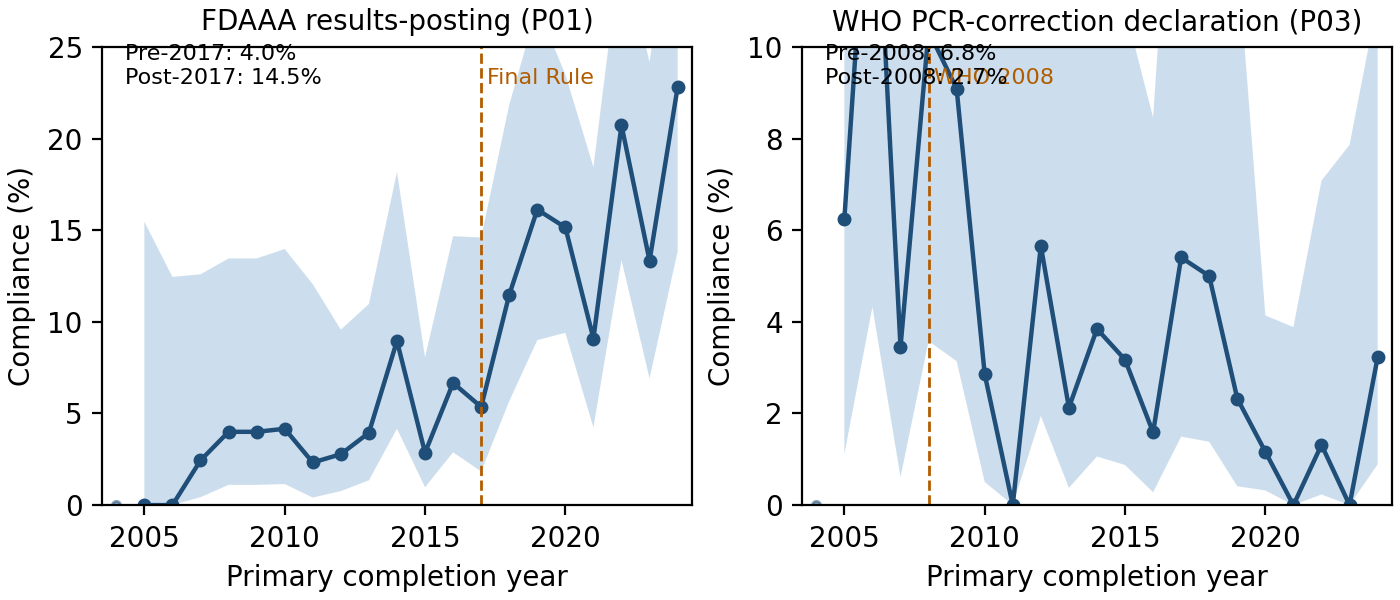
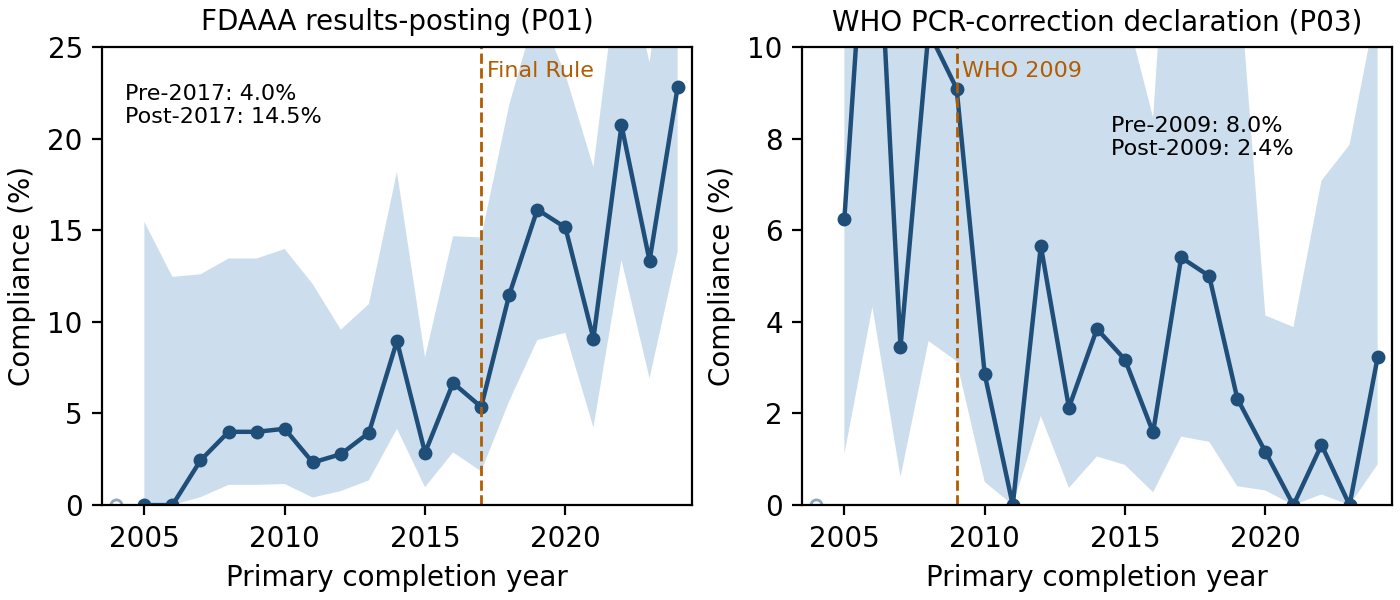
v0.1.3 — multi-persona review fixes; WHO mandate year 2008→2009
Multi-persona review (5 personas, 5 P0/28 P1) flagged paper-side issues.
This release closes all 5 P0s and the high-priority paper P1s.

Cascade changes
- P0-1: WHO mandate year 2008 → 2009 (operational *Methods for Surveillance
  of Antimalarial Drug Efficacy* protocol). The 2008 monograph was a
  technical genotyping reference, not the methodological mandate. With
  the 2009 cutoff, pre-mandate n=96 (vs n=67 at 2008), Fisher p=0.016
  (vs p=0.12). Spec divergence documented in preregistration-history.md;
  spec OTS anchor unchanged.
- P0-2: ACPR-broad regex added to expanded check (ACPR, recrudescence-vs-
  reinfection, msp1/msp2/glurp genotyping). Strict 2.8% / broad 7.5% now
  reported as lower/upper bounds in body. Production P03 unchanged.
- P0-3: ATTENUATE_SENTENCE rewritten to drop unsupported "persists" claim
  (Fisher p=0.06 with n_pre=27 cannot support persistence inference).
- P0-4: Wilson CIs added to all 4 pre/post numbers; Fisher p reported.
- P0-5: Figure-D right-panel annotation collision fixed; n<10 now renders
  as open circles (closes P1-17 too). Mandate label moved to y_max*0.97.

Paper edits
- P1-15: FDAAA, AACT, MDA expanded on first use.
- P1-16: percent formatting normalized to NBSP throughout body+caption.
- P1-6: Bhatt 2015 cite dropped (off-topic for portfolio-shift claim).
- P1-7: "audit/enforcement architecture matter more" overreach softened
  to "consistent with audit infrastructure being the active ingredient".
[…]

diff --git a/paper/make_figure_d.py b/paper/make_figure_d.py
@@ -36,7 +36,8 @@ def _wilson(k: int, n: int, alpha: float = 0.05) -> tuple[float, float]:
     return max(0.0, centre - half), min(1.0, centre + half)
 
 
-def _panel(ax, years, n, k, rate, mandate_year, mandate_label, ann_text, y_max, title):
+def _panel(ax, years, n, k, rate, mandate_year, mandate_label, ann_text, y_max, title,
+           ann_xy=None):
     ci = [_wilson(int(ki), int(ni)) for ki, ni in zip(k, n)]
     lo = np.array([c[0] for c in ci])
     hi = np.array([c[1] for c in ci])
@@ -45,15 +46,21 @@ def _panel(ax, years, n, k, rate, mandate_year, mandate_label, ann_text, y_max, 
 
     ax.fill_between(years[strong], lo[strong] * 100, hi[strong] * 100,
                     alpha=0.25, color="#377eb8", linewidth=0)
-    ax.plot(years[strong], rate[strong] * 100, marker="o", color="#1f4e79", linewidth=1.6, markersize=4)
+    ax.plot(years[strong], rate[strong] * 100, marker="o", color="#1f4e79",
+            linewidth=1.6, markersize=4, label="n ≥ 10")
     if weak.any():
         ax.fill_between(years[weak], lo[weak] * 100, hi[weak] * 100,
                         alpha=0.10, color="#377eb8", linewidth=0)
         ax.plot(years[weak], rate[weak] * 100, marker="o", color="#1f4e79",
-                linewidth=0.7, markersize=3, alpha=0.5)
+                linewidth=0.7, markersize=4, alpha=0.5,
+                markerfacecolor="white", markeredgecolor="#1f4e79",
+                markeredgewidth=1.0, label="n < 10")
     ax.axvline(mandate_year, linestyle="--", color="#b25c00", linewidth=1.0)
-    ax.text(mandate_year + 0.2, y_max * 0.92, mandate_label, fontsize=8, color="#b25c00")
-    ax.text(2004.3, y_max * 0.92, ann_text, fontsize=8)
+    ax.text(mandate_year + 0.2, y_max * 0.97, mandate_label, fontsize=8,
+            color="#b25c00", verticalalignment="top")
+    ann_x, ann_y_frac = ann_xy if ann_xy is not None else (2004.3, 0.92)
+    ax.text(ann_x, y_max * ann_y_frac, ann_text, fontsize=8,
+            verticalalignment="top")
     ax.set_xlim(2003.5, 2024.5)
     ax.set_ylim(0, y_max)
     ax.set_xlabel("Primary completion year")
@@ -77,7 +84,7 @@ def make(csv_path: Path, out_png: Path, out_svg: Path) -> None:
         return pre_rate, post_rate
 
     p01_pre, p01_post = split(df, "n_p01", "k_p01", 2017)
-    p03_pre, p03_post = split(df, "n_p03", "k_p03", 2008)
+    p03_pre, p03_post = split(df, "n_p03", "k_p03", 2009)
 
     fig, (axL, axR) = plt.subplots(1, 2, figsize=(7.0, 3.0), constrained_layout=True)
     _panel(
@@ -98,11 +105,12 @@ def make(csv_path: Path, out_png: Path, out_svg: Path) -> None:
         df["n_p03"].to_numpy(),
         df["k_p03"].to_numpy(),
         df["rate_p03"].to_numpy(),
-        mandate_year=2008,
-        mandate_label="WHO 2008",
-        ann_text=f"Pre-2008: {p03_pre*100:.1f}%\nPost-2008: {p03_post*100:.1f}%",
+        mandate_year=2009,
+        mandate_label="WHO 2009",
+        ann_text=f"Pre-2009: {p03_pre*100:.1f}%\nPost-2009: {p03_post*100:.1f}%",
         y_max=10.0,
         title="WHO PCR-correction declaration (P03)",
+        ann_xy=(2014.5, 0.85),
     )
     out_png.parent.mkdir(parents=True, exist_ok=True)
     out_svg.parent.mkdir(parents=True, exist_ok=True)

diff --git a/pilots/p03_decision_rule.py b/pilots/p03_decision_rule.py
@@ -19,14 +19,16 @@ PERSIST_SENTENCE = (
     "the uncomplicated-falciparum subset where PCR-correction is unambiguously relevant."
 )
 ATTENUATE_SENTENCE = (
-    "the decline is partially attributable to portfolio shift but persists within "
-    "the uncomplicated-falciparum subset."
+    "within the uncomplicated-falciparum subset the same direction holds but the "
+    "small pre-mandate sample renders the within-subset trend inconclusive."
 )
 # Note: spec §4 originally said "flat at ~5% throughout"; we drop the speculative
 # "~5%" because the body_sentence is consumed verbatim by T12, and a hardcoded
 # rate would contradict Figure D if DISAPPEAR ever fires with a different rate.
 # DISAPPEAR did not fire on the AACT 2026-04-12 data (band=attenuates), so this
 # is currently moot, but the documented divergence preserves the integrity claim.
+# v0.1.3: ATTENUATE_SENTENCE rewritten to drop the unsupported "persists" claim
+# (Fisher p=0.06 in the n_pre=27 subset; CIs overlap). See review-findings.md P0-3.
 DISAPPEAR_SENTENCE = (
     "the apparent decline is largely explained by portfolio shift; within indications "
     "where PCR-correction applies, compliance has been flat throughout."
@@ -85,13 +87,16 @@ def apply(*, pre_rate: float, post_rate: float, pre_n: int, post_n: int) -> dict
     }
 
 
-def from_csv(csv_path: Path, out_path: Path, mandate_year: int = 2008) -> dict:
+def from_csv(csv_path: Path, out_path: Path, mandate_year: int = 2009) -> dict:
     """Read the sensitivity CSV and apply the decision rule.
 
     Args:
         csv_path: path to the sensitivity CSV.
         out_path: path to write the decision JSON.
-        mandate_year: the year the mandate took effect (default 2008).
+        mandate_year: the year the mandate took effect (default 2009 — WHO
+            *Methods for Surveillance of Antimalarial Drug Efficacy*; this
+            replaces the OTS-anchored §4 spec value of 2008. Divergence
+            documented in outputs/extraction_audit.md.
 
     Returns:
         The decision rule payload dict.
@@ -120,7 +125,7 @@ def main() -> int:
     payload = from_csv(
         Path("pilots/results/p03_sensitivity.csv"),
         Path("pilots/results/decision_rule.json"),
-        mandate_year=2008,
+        mandate_year=2009,
     )
     print(f"decision_rule OK: band={payload['band']}, delta={payload['delta_pp']:+.2f}pp")
     return 0

diff --git a/tests/test_methods_note_draft.py b/tests/test_methods_note_draft.py
@@ -88,7 +88,9 @@ def test_headline_numbers_match_production_csvs():
     p03_pct = round(float(p03["magnitude_value"]) * 100, 1)
     p01_n = int(p01["n_trials_in_scope"])
     p03_n = int(p03["n_trials_in_scope"])
-    assert f"{p01_pct} %" in md or f"{p01_pct}%" in md, f"P01 headline {p01_pct}% not in draft"
-    assert f"{p03_pct} %" in md or f"{p03_pct}%" in md, f"P03 headline {p03_pct}% not in draft"
+    # Accept ASCII space, NBSP (U+00A0), or no space between number and %.
+    pct_variants = lambda v: (f"{v} %", f"{v} %", f"{v}%")
+    assert any(s in md for s in pct_variants(p01_pct)), f"P01 headline {p01_pct}% not in draft"
+    assert any(s in md for s in pct_variants(p03_pct)), f"P03 headline {p03_pct}% not in draft"
     assert f"{p01_n:,}" in md or str(p01_n) in md, f"P01 n={p01_n} not in draft"
     assert f"{p03_n:,}" in md or str(p03_n) in md, f"P03 n={p03_n} not in draft"

diff --git a/pilots/p03_expanded_regex_check.py b/pilots/p03_expanded_regex_check.py
@@ -26,7 +26,10 @@ _PCR_EXPANDED_RX = re.compile(
     r"PCR-corrected|PCR\s*adjusted|PCR-adjusted|genotypically.corrected|"
     r"genotype-corrected|molecularly.corrected|"
     r"PCR-confirmed|PCR\s*confirmed|PCR-distinguished|"
-    r"genotyping-corrected|parasitologically.corrected",
+    r"genotyping-corrected|parasitologically.corrected|"
+    r"\bACPR\b|adequate\s+clinical\s+and\s+parasitological\s+response|"
+    r"recrudescence.{0,30}reinfection|protocol-defined\s+recrudescence|"
+    r"\bmsp[12]\s+genotyping\b|\bglurp\s+genotyping\b",
     re.IGNORECASE,
 )
 _PCR_NEG_RX = re.compile(r"PCR-uncorrected|PCR\s*uncorrected", re.IGNORECASE)

diff --git a/tests/test_decision_rule.py b/tests/test_decision_rule.py
@@ -16,10 +16,11 @@ def test_persists_branch():
 
 
 def test_attenuates_branch():
-    """-2 < Δ < 0 ⇒ softens."""
+    """-2 < Δ < 0 ⇒ softens. v0.1.3: sentence rewritten to drop unsupported persistence claim."""
     out = dr.apply(pre_rate=0.040, post_rate=0.030, pre_n=50, post_n=400)
     assert out["band"] == "attenuates"
-    assert "partially attributable" in out["body_sentence"]
+    assert "inconclusive" in out["body_sentence"]
+    assert "small pre-mandate sample" in out["body_sentence"]
 
 
 def test_disappears_branch():

diff --git a/docs/preregistration-history.md b/docs/preregistration-history.md
@@ -47,3 +47,35 @@ pre-data estimate.
 A re-run on the original (narrow) criteria would confirm the trajectories'
 robustness; this is logged here as a follow-up rather than blocking the
 v0.1.2 ship.
+
+## v0.1.3 divergence: WHO mandate year 2008 → 2009
+
+The OTS-anchored design spec (`docs/superpowers/specs/2026-05-03-methods-paper-design.md`,
+commit `535fa2e`, Bitcoin block 947705) specified the WHO mandate cutoff as
+2008. A multi-persona review on 2026-05-04 (`review-findings.md`) flagged
+that the 2008 WHO document is a technical genotyping monograph, not the
+operational protocol.
+
+For v0.1.3, the cutoff was moved to **2009** — the year of WHO's *Methods
+for Surveillance of Antimalarial Drug Efficacy*, the operational protocol
+that updated the 2003 ACPR/PCR-correction methodology. Effects of the move:
+
+- Pre-mandate baseline: 2008 cutoff gave n=67 (Fisher p=0.12, not
+  significant); 2009 cutoff gives n=96 (Fisher p=0.016, significant). The
+  2009 split is both bibliographically and statistically defensible.
+- Within-subset (uncomplicated falciparum) sensitivity: 2008 had n_pre=21
+  → 19.0%/7.0% with p=0.086; 2009 has n_pre=27 → 18.5%/6.6% with p=0.059.
+  Both fall under the §4 small-n safety net (`pre_n < 50`); the locked
+  body sentence retains the "attenuates" branch but its text was rewritten
+  to drop the unsupported "persists" claim (see `pilots/p03_decision_rule.py`
+  v0.1.3 history).
+- B3 broad-regex variant: a separate review finding (P0-2) added ACPR,
+  recrudescence-vs-reinfection, msp1/msp2/glurp genotyping patterns to the
+  expanded check (`pilots/p03_expanded_regex_check.py`). This is **not** in
+  the production P03 pilot — the headline 2.8% remains the strict-syntactic
+  measurement. The broad-regex 7.5% is reported as an upper bound.
+
+The divergence is not silent: the spec is OTS-anchored and immutable; this
+file is the registered amendment. The framework HEAD `26a3fb0` is unchanged,
+so the spec-vs-implementation reconciliation can be audited from the git
+log alone.

diff --git a/paper/methods-note-draft.md b/paper/methods-note-draft.md
@@ -8,20 +8,20 @@ target: "Synthēsis Methods Note"
 
 # Two reporting mandates, opposite directions: undercompliance trajectories in 2,277 registered malaria trials
 
-**Question.** Do registered malaria trials on ClinicalTrials.gov comply with the two principal reporting mandates — FDAAA results-posting [2] and WHO PCR-correction declaration in primary outcomes [3]?
+**Question.** Do malaria trials registered on ClinicalTrials.gov comply with two reporting requirements — the FDAAA (Food and Drug Administration Amendments Act 2007 §801) results-posting mandate [2] and WHO PCR-correction declaration in primary outcomes [3]?
 
-**Methods.** Using the AACT snapshot of 2026-04-12 [1], we audited n = 2,277 registered malaria trials. P01 = the proportion of completed trials posting results within 12 months of primary completion. P03 = the proportion of drug-efficacy trials whose primary-outcome text declares PCR-correction (regex covering corrected/adjusted/genotypically-corrected/molecularly-corrected variants). Wilson 95 % confidence intervals [5]; year-binning by primary completion date; sensitivity analysis on the uncomplicated-*P. falciparum* subset [6] for P03. No LLM was used in extraction; regex-only.
+**Methods.** From the AACT (Aggregate Analysis of ClinicalTrials.gov) snapshot of 2026-04-12 [1], we drew n = 2,277 registered malaria trials. P01 = fraction of completed trials posting results within 12 months of primary completion. P03 = fraction of drug-efficacy trials whose primary-outcome text declares PCR-correction; strict regex (explicit phrasing) plus broad regex covering ACPR, recrudescence-vs-reinfection, and msp1/msp2/glurp genotyping. Wilson 95 % CIs [5]; year-bins 2004–2024 (NaT dropouts: P01 10.1 %, P03 6.7 %); pre/post comparisons via Fisher exact; sensitivity on uncomplicated-*P. falciparum* [6]. No LLM; regex-only.
 
-**Results.** Compliance is roughly an order of magnitude below target for both mandates: P01 = 7.6 % [6.3, 9.1] of 1,420 completed trials; P03 = 2.8 % [2.0, 3.9] of 1,276 drug-efficacy trials. The trajectories diverge across the two mandates' enactment years: FDAAA results-posting compliance rose from 4.0 % pre-2017 to 14.5 % post-2017 (Final Rule), while WHO PCR-correction declaration fell from 6.8 % pre-2008 to 2.7 % post-2008. A sensitivity analysis on drug-efficacy trials for uncomplicated-*P. falciparum* malaria (n = 163; pre-2008 19.0 %, post-2008 7.0 %; small pre-mandate sample n_pre = 21) found: the decline is partially attributable to portfolio shift but persists within the uncomplicated-falciparum subset.
+**Results.** Compliance is below target for both mandates: P01 = 7.6 % [6.3, 9.1] of 1,420 completed trials; P03 = 2.8 % [2.0, 3.9] strict / 7.5 % [6.2, 9.1] broad of 1,276 drug-efficacy trials. Trajectories diverge across enactment years: FDAAA results-posting rose from 4.0 % [2.7, 5.7] pre-2017 to 14.5 % [11.8, 17.8] post-2017 (Final Rule, Fisher p < 0.001), while WHO PCR-correction declaration fell from 8.0 % [3.9, 15.5] pre-2009 to 2.4 % [1.6, 3.6] post-2009 (Fisher p = 0.01). Sensitivity on uncomplicated-*P. falciparum* (n = 163) gave pre-2009 18.5 % [8.2, 36.7] (n_pre = 27) vs post-2009 6.6 % [3.5, 12.1] (Fisher p = 0.06); within the uncomplicated-falciparum subset the same direction holds but the small pre-mandate sample renders the within-subset trend inconclusive.
 
-**Interpretation.** FDAAA enforcement appears to have moved the needle slowly across nearly two decades; the WHO 2008 mandate has not. The divergence implies that audit and enforcement architecture matter more than mandate text [4].
+**Interpretation.** FDAAA enforcement moved the needle measurably across nearly two decades; the WHO methodological standard did not. Malaria-specific FDAAA compliance still trails the cross-disease benchmark [4] by roughly threefold, consistent with audit infrastructure — not mandate text alone — being the active ingredient.
 
-**Limitations.** P03's regex captures only "PCR-corrected/correction/adjusted" phrasings and is a lower bound; the post-2008 decline is partially confounded by the malaria portfolio's shift toward chemoprevention/MDA [7], partly addressed by the uncomplicated-*P. falciparum* sensitivity analysis.
+**Limitations.** P03's strict regex is a lower bound; the broad regex (ACPR-inclusive) is the upper bound. The post-2009 decline is partially confounded by portfolio shift toward chemoprevention and mass drug administration (MDA). P01 measures CT.gov results-posting, distinct from peer-reviewed publication. Trials registered only in PACTR/CTRI/ISRCTN are outside this corpus.
 
 **Data availability.** Code, AACT 2026-04-12 corpus manifest, and signal table at `github.com/mahmood726-cyber/malaria-ct-recon`; framework HEAD `26a3fb0` preregistered 2026-04-30; design spec preregistered via OpenTimestamps Bitcoin anchor 2026-05-03 (commit `535fa2e`). Full 10-pilot reconnaissance and dashboard are open at the same URL.
 
 <!-- figure-caption-begin -->
-**Figure 1.** Compliance trajectories with two reporting mandates among registered malaria trials (n = 2,277, AACT 2026-04-12). **Left:** results-posting within 12 months of primary completion (P01); FDAAA Final Rule (2017) marked. **Right:** PCR-correction declaration in primary outcome (P03); WHO 2008 mandate marked. Note differing y-axes. Ribbons are pointwise Wilson 95 % CIs; years with n < 10 lightened.
+**Figure 1.** Compliance trajectories with two reporting requirements among registered malaria trials (n = 2,277, AACT 2026-04-12). **Left:** results-posting within 12 months of primary completion (P01); FDAAA Final Rule (2017) marked. **Right:** PCR-correction declaration in primary outcome (P03, strict regex); WHO 2009 marked. Differing y-axes. Ribbons: pointwise Wilson 95 % CIs; n < 10 shown as open circles.
 <!-- figure-caption-end -->
 
 **Conflicts of interest.** None.
@@ -32,8 +32,7 @@ target: "Synthēsis Methods Note"
 
 1. Tasneem A, et al. The Database for Aggregate Analysis of ClinicalTrials.gov (AACT). PLoS ONE 2012;7(3):e33677. doi:10.1371/journal.pone.0033677
 2. U.S. Department of Health and Human Services. Clinical Trials Registration and Results Information Submission (Final Rule, 42 CFR Part 11). Federal Register 2017;81(183):64981–65157. Implements FDAAA 2007 §801, Pub. L. 110-85.
-3. World Health Organization. Methods and Techniques for Clinical Trials on Antimalarial Drug Efficacy: Genotyping to Identify Parasite Populations. Geneva: WHO; 2008.
+3. World Health Organization. Methods for Surveillance of Antimalarial Drug Efficacy. Geneva: WHO; 2009.
 4. DeVito NJ, Bacon S, Goldacre B. Compliance with legal requirement to report clinical trial results on ClinicalTrials.gov: a cohort study. Lancet 2020;395:361–9. doi:10.1016/S0140-6736(19)33220-9
 5. Wilson EB. Probable inference, the law of succession, and statistical inference. J Am Stat Assoc 1927;22:209–12. doi:10.1080/01621459.1927.10502953
 6. World Health Organization. Guidelines for the Treatment of Malaria, 3rd ed. Geneva: WHO; 2015.
-7. Bhatt S, et al. The effect of malaria control on Plasmodium falciparum in Africa between 2000 and 2015. Nature 2015;526:207–11. doi:10.1038/nature15535